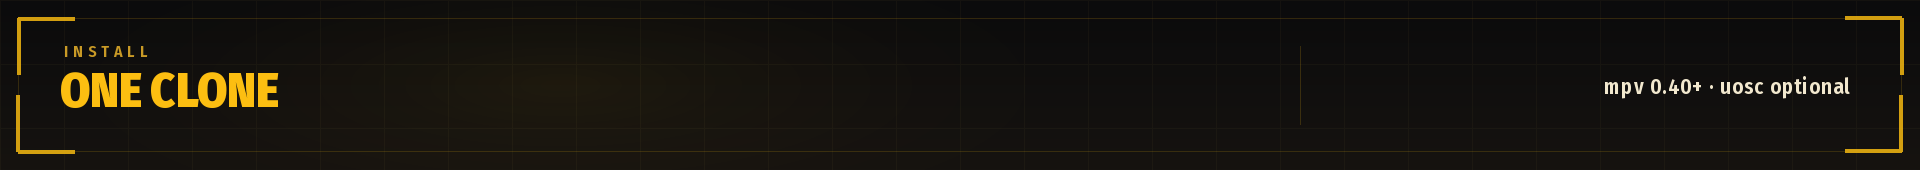
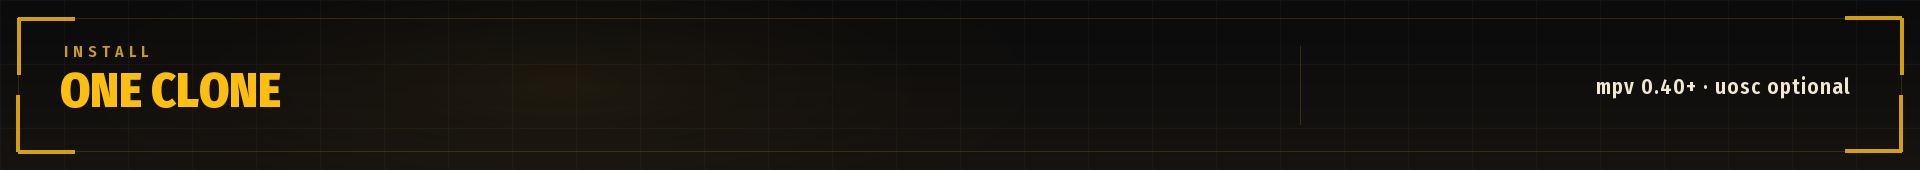
feat: rework keybindings and audio profile names
Move zoom to Ctrl+wheel, capture with F10/Shift+F10 and free the mpv defaults that could fight the subtitle style or the image. Rename Off to No Processing and align the ids with Cinematic, Balanced and Night Mode. Autocrop now waits 10 s after load so fades and title cards do not skew it.

Update the keyboard map with the mouse panel, the README, AGENTS.md and the 1.2.7 changelog entry, and regenerate the banners.

Changed region(s): [[0.8125, 0.4706, 0.9688, 0.5588], [0.0938, 0.4412, 0.1562, 0.6471], [0.0312, 0.2647, 0.0938, 0.3235]]

diff --git a/assets/banner.py b/assets/banner.py
@@ -227,12 +227,12 @@ def strip(path, kicker, title, detail):
 def main():
     p = argparse.ArgumentParser()
     p.add_argument("--out", type=Path, default=HERE)
-    p.add_argument("--version", default="v1.2.6")
+    p.add_argument("--version", default="v1.2.7")
     a = p.parse_args()
     a.out.mkdir(parents=True, exist_ok=True)
     hero(a.out / "banner.png", a.version)
     design(a.out / "design.png", a.version)
-    strip(a.out / "audio.png", "AUDIO", "FOUR PROFILES", "OFF \u00b7 SOFT \u00b7 BALANCED \u00b7 NIGHT")
+    strip(a.out / "audio.png", "AUDIO", "FOUR PROFILES", "NO PROCESSING \u00b7 CINEMATIC \u00b7 BALANCED \u00b7 NIGHT")
     strip(a.out / "subtitles.png", "SUBTITLES", "ADAPTIVE PLACEMENT", "AMBER \u00b7 SIZE \u00b7 DELAY")
     strip(a.out / "installation.png", "INSTALL", "ONE CLONE", "mpv 0.40+ \u00b7 uosc optional")
     for name in ("banner.png", "design.png", "audio.png", "subtitles.png", "installation.png"):

diff --git a/README.md b/README.md
@@ -23,10 +23,10 @@ Subtitle style: fill `#FCBE11` · outline `#1F1F1F` at 1.5 · size 40 · spacing
 
 - **Video** — windowed at most 90 % of the screen, borderless. The `high-quality` profile is on by default: EWA Lanczos with antiringing, sigmoid upscaling, correct downscaling, temporal dither, full-range output and HDR peak computation. Motion interpolation and hardware decoding are off; debanding is off too (`b` toggles it).
 - **Subtitles** — Merriweather Bold 700, bundled in [`fonts/`](fonts/) and loaded from `~~/fonts`, so nothing needs installing. Styling is forced over every track (ASS/fansub signs included); external subs autoload fuzzily; margins, MKV preroll and embedded fonts are enabled. They adapt to the window, not the video: `blend-subtitles=no` keeps them on the OSD layer, so they stay sharp at any size and never stretch with the image, and `w` slides them into the black bars of any letterboxed source. Size chosen with numpad `+` / `-` survives restarts.
-- **Audio** — stereo downmix, pitch correction when changing speed, fuzzy external audio. Four profiles on `1`–`4`, starting in Off; see [Audio profiles](#-audio-profiles).
+- **Audio** — stereo downmix, pitch correction when changing speed, fuzzy external audio. Four profiles on `1`–`4`, starting in No Processing; see [Audio profiles](#-audio-profiles).
 - **Languages** — subtitles English (SDH shares the `en` tag) then Spanish; audio English then Spanish; forwarded to yt-dlp.
 - **Streaming** — 100 s cache, desktop Firefox user agent, maximum HLS bitrate, looping GIF/WebM.
-- **Scripts** — `audio-norm` (profiles), `subtitle-size` (persistence), `esc-quit` (two-step close), `autocrop` (`C`), `autodeint` (`Ctrl+d`), `autoload` (queue the folder), `oled-screensaver` (black overlay after 60 s idle), `thumbfast` (timeline previews).
+- **Scripts** — `audio-norm` (profiles), `subtitle-size` (persistence), `esc-quit` (two-step close), `autocrop` (crops 10 s after load; `C` toggles), `autodeint` (`Ctrl+d`), `autoload` (queue the folder), `oled-screensaver` (black overlay after 60 s idle), `thumbfast` (timeline previews).
 - **Interface** (optional) — [uosc](https://github.com/tomasklaen/uosc) installed from its latest release by the per-system installer ([step 3](#-installation)): proximity timeline, control bar, searchable menus for tracks, OpenSubtitles search, playlist, chapters, file browser and keybind lookup, all with thumbfast previews. It follows `osd-font` and the subtitle-language order; the volume slider mirrors the numpad keys (set `volume=none` in `script-opts/uosc.conf` to hide it). Without uosc the minimal OSC in `script-opts/osc.conf` takes over.
 - **Thumbnails** — [thumbfast](https://github.com/po5/thumbfast) (MPL-2.0) ships in `scripts/` and renders previews by running mpv from `PATH`. If mpv is not in `PATH` (common on Windows), point to it in `script-opts/thumbfast.conf` (gitignored):
 
@@ -34,59 +34,57 @@ Subtitle style: fill `#FCBE11` · outline `#1F1F1F` at 1.5 · size 40 · spacing
   mpv_path=C:\Program Files\mpv\mpv.exe
   ```
 
-## Keys
+## Keybindings
 
-![Keyboard map: amber keys mark every binding; the numpad sets volume and subtitle size](assets/keys.png)
+![Keyboard map: amber keys mark every binding; the numpad sets volume and subtitle size, and the mouse panel shows the zoom and pan controls](assets/keys.png)
 
 | Key | Action |
 | --- | --- |
-| `1` / `2` / `3` / `4` | Audio profile: Off / Soft / Balanced / Night |
+| `1` / `2` / `3` / `4` | Audio profile: No Processing / Cinematic / Balanced / Night Mode |
 | `m` | Mute † |
 | `q` / `w` | Subtitles up / down (past 100 % they enter the black bars) |
 | `a` / `s` | Subtitle delay −100 ms / +100 ms |
-| `z` / `Shift+z` | Zoom (panscan) more / less |
-| `PrintScreen` / `Ctrl+PrintScreen` | Screenshot without / with subtitles |
-| `F10` / `Ctrl+F10` | Same, when the OS captures PrintScreen |
+| `Ctrl`+wheel up/down | Zoom in / out (`video-zoom`) |
+| `Ctrl`+drag | Pan the zoomed image |
+| `F10` / `Shift+F10` | Screenshot without / with subtitles |
 | `Esc` | Leave fullscreen; when windowed, quit (a uosc menu closes first) |
 | `Shift+Esc` | Quit and save the position |
-| `b` / `v` | Toggle deband / cycle video output levels |
+| `b` | Toggle deband |
 | `←` / `→` | Seek −5 s / +5 s † |
 | `↑` / `↓` | Seek +60 s / −60 s † |
 | `[` / `]` | Speed down / up (×0.91 / ×1.1) † |
 | `Backspace` | Speed back to 1× † |
 | numpad `0`–`9` | Volume 0 %, 11.1 %, …, 88.9 %, 100 % † |
 | numpad `+` / `-` | Subtitle size ±2 (saved between runs) |
-| `C` / `Ctrl+d` | Autocrop / autodeint |
+| `C` | Autocrop now (it also runs 10 s after playback starts) |
+| `Ctrl+d` | Autodeint |
 
 † Flashes uosc's own timeline, volume or speed indicator instead of the built-in OSD bar.
 
-`f`, `Space`, double-click fullscreen and the usual track/playlist keys are mpv defaults. Deliberately unbound: `r`, `t`, `e`, `x`, `Shift+q`, `5`–`8`, horizontal `9`/`0`, `/`, `*`, wheel up/down, `S`, `Ctrl+s`, `Alt+s`, `Ctrl+w` and the volume media keys. Only `1`–`4` are horizontal number keys; the numpad digits set volume. `q` no longer quits: `Esc` and `Shift+Esc` are the quit keys (`Ctrl+c` still force-quits).
+`f`, `Space`, `Alt+Backspace` (reset zoom) and the usual track/playlist keys are mpv defaults. Deliberately unbound: `r`, `t`, `e`, `x`, `z`, `Shift+z`, `v`, `Shift+q`, `5`–`8`, horizontal `9`/`0`, `/`, `*`, wheel up/down/left/right, `S`, `Ctrl+s`, `Alt+s`, `Ctrl+w`, `u`, `V`, `A`, `F`, `G`, `E`, `PrintScreen` and the volume media keys. Only `1`–`4` are horizontal number keys; the numpad digits set volume. `q` no longer quits: `Esc` and `Shift+Esc` are the quit keys (`Ctrl+c` still force-quits).
 
 **Closing** is two-step on purpose. In fullscreen, `Esc` leaves fullscreen and only the next press quits. `Shift+Esc` always quits and saves the position; the window close button also saves (`save-position-on-quit`). Resume keeps the position, not the audio profile — the script reasserts the selected profile on load.
 
-**Screenshots** — `PrintScreen` captures the frame, `Ctrl+PrintScreen` adds subtitles; `F10`/`Ctrl+F10` do the same where the OS reserves PrintScreen. On Windows 11 disable *Settings → Accessibility → Keyboard → Use the Print Screen key to open Snipping Tool* if it never reaches mpv. PNG output; with `blend-subtitles=no` neither mode includes the letterbox bars. The old `s`/`S`/`Ctrl+s`/`Alt+s` bindings are gone so `s` can adjust subtitle delay.
+**Screenshots** — `F10` captures the frame, `Shift+F10` adds subtitles. PNG output; with `blend-subtitles=no` neither mode includes the letterbox bars. The old `s`/`S`/`Ctrl+s`/`Alt+s` and `PrintScreen` bindings are gone so `s` can adjust subtitle delay and the print key stays with the system.
+
+**Zoom** — `Ctrl`+wheel moves `video-zoom`: 0 is fit, 0.1 is about +7 %, and negative values zoom out past the frame. `Alt+Backspace` resets zoom, pan and alignment. `z`/`Shift+z` no longer touch the image.
+
+**Autocrop** — after 10 s of playback it detects the encoded black borders and crops them; `C` applies or undoes the crop at any time.
 
 ## 🎚 Audio profiles
 
-![Audio banner: FOUR PROFILES — Off, Soft, Balanced, Night](assets/audio.png)
+![Audio banner: FOUR PROFILES — No Processing, Cinematic, Balanced, Night Mode](assets/audio.png)
 
-`scripts/audio-norm.lua` owns the filter chain. Each key **replaces** it, and playback starts in **1 — Off**. Bindings call named script bindings, so they can be remapped without touching the Lua.
+`scripts/audio-norm.lua` owns the filter chain. Each key **replaces** it, and playback starts in **1 — No Processing**. Bindings call named script bindings, so they can be remapped without touching the Lua.
 
-| Key | Profile | Target | Peak | Character |
-| --- | --- | ---: | ---: | --- |
-| `1` | Off (default) | — | — | original mix |
-| `2` | Soft | −23 LUFS | −1 dBTP | wide, natural |
-| `3` | Balanced | −18 LUFS | −2 dBTP | controlled |
-| `4` | Night | −16 LUFS | −3 dBTP | dialogue lifted |
+| Key | Profile | Chain | I (LUFS) | LRA | TP (dBTP) | Character |
+| --- | --- | --- | ---: | ---: | ---: | --- |
+| `1` | No Processing (default) | none | — | — | — | original mix |
+| `2` | Cinematic | `loudnorm` | −23 | 18 | −1 | wide, natural |
+| `3` | Balanced | `loudnorm` | −18 | 15 | −2 | controlled |
+| `4` | Night Mode | `acompressor` 4:1 at −18 dB → `loudnorm` | −16 | 7 | −3 | dialogue lifted |
 
-| Key | Processing | I (LUFS) | LRA | TP (dBTP) | `alimiter` |
-| --- | --- | ---: | ---: | ---: | ---: |
-| `1` | none | — | — | — | — |
-| `2` | `loudnorm` | −23 | 18 | −1 | −1 dBFS |
-| `3` | `loudnorm` | −18 | 15 | −2 | −2 dBFS |
-| `4` | `acompressor` 4:1 at −18 dB → `loudnorm` | −16 | 7 | −3 | −3 dBFS |
-
-Soft, Balanced and Night use `loudnorm` in single-pass dynamic mode (`linear=false`): gain follows the target live, no pre-scan. Night adds one compressor stage — threshold `0.125` (≈ −18 dBFS), ratio `4:1`, attack `20 ms`, release `250 ms`, knee `2.5`, unity makeup. Every processed profile ends in `alimiter` (`level=0`, 5 ms attack / 50 ms release): `loudnorm`'s TP is the true-peak target, `alimiter` the sample-peak safety net.
+Cinematic, Balanced and Night Mode use `loudnorm` in single-pass dynamic mode (`linear=false`): gain follows the target live, no pre-scan. Night Mode adds one compressor stage — threshold `0.125` (≈ −18 dBFS), ratio `4:1`, attack `20 ms`, release `250 ms`, knee `2.5`, unity makeup. Every processed profile ends in `alimiter` (`level=0`, 5 ms attack / 50 ms release): `loudnorm`'s TP is the true-peak target, `alimiter` the sample-peak safety net.
 
 - **LUFS** — perceived loudness; `loudnorm` drives gain to the target and constrains LRA and TP.
 - **Loudness ≠ volume** — loudness belongs to the recording; volume to the player, OS, DAC or speakers.
@@ -94,7 +92,7 @@ Soft, Balanced and Night use `loudnorm` in single-pass dynamic mode (`linear=fal
 - **Compression** — `acompressor` turns down what exceeds its threshold, shrinking the gap between dialogue and effects.
 - **LRA** — the quiet-to-loud span; a lower target compresses it more. Labels describe the intended result, not a measurement of every soundtrack.
 
-**Volume** starts at 100. Numpad `0`–`9` sets 0 %, 11.1 %, …, 88.9 %, 100 % (0 is silent, 9 is full scale); `/` and `*` adjust ±2; `m` and the mute key mute. `volume-max=100` blocks gain above 100 %, and the horizontal volume keys, wheel and media keys stay unbound.
+**Volume** starts at 100. Numpad `0`–`9` sets 0 %, 11.1 %, …, 88.9 %, 100 % (0 is silent, 9 is full scale); `/` and `*` adjust ±2; `m` and the mute key mute. `volume-max=100` blocks gain above 100 %, and the horizontal `9`/`0`, `/`, `*`, the plain wheel and the media volume keys stay unbound (`Ctrl`+wheel is zoom).
 
 **Resume** restores position only: `watch-later-options-remove` drops `af`, `volume` and `mute` from new watch-later files, and the profile is reasserted on every load. Old watch-later files may still carry a volume; deleting them clears it.
 
@@ -104,7 +102,7 @@ Soft, Balanced and Night use `loudnorm` in single-pass dynamic mode (`linear=fal
 
 Subtitles are laid out against the window instead of the video image: `blend-subtitles=no` keeps them on the OSD layer, so they stay sharp at any window size and never stretch with the picture. `sub-use-margins=yes` and `sub-ass-force-margins=yes` let them use the whole frame, and `w` moves them into the bottom black bar of any letterboxed source — 21:9 or 4:3, same behaviour. `sub-pos` runs 0–150; 100 is the normal spot just above the bottom edge, and `w` (or ~100–106) sits inside the bar. Much higher approaches the window edge and can clip, especially with two lines.
 
-Numpad `+` / `-` (or `G` / `F`) change the size; `scripts/subtitle-size.lua` writes every change to `subtitle-size.txt` and restores it at startup. The file is gitignored — delete it to fall back to `sub-font-size=40`.
+Numpad `+` / `-` change the size; `scripts/subtitle-size.lua` writes every change to `subtitle-size.txt` and restores it at startup. The file is gitignored — delete it to fall back to `sub-font-size=40`.
 
 ## 📥 Installation
 
@@ -128,7 +126,7 @@ mv ~/.config/mpv ~/.config/mpv.backup 2>/dev/null
 git clone https://github.com/mfascioli/mpv-config.git ~/.config/mpv
 ```
 
-**2 — Start mpv.** Settings, keys, scripts, the Merriweather font and a minimal OSC are ready. mpv finds the folder by itself — no flags, no network.
+**2 — Start mpv.** Settings, keybindings, scripts, the Merriweather font and a minimal OSC are ready. mpv finds the folder by itself — no flags, no network.
 
 **3 — Optional: uosc.** The timeline, control bar, menus and search. Run one command; skip it to keep the minimal OSC:
 

diff --git a/AGENTS.md b/AGENTS.md
@@ -21,34 +21,42 @@ OSD messages, commit messages, image labels, filenames. Never reintroduce
 Spanish aliases such as *Cine*, *Películas*, *Estándar* or *Noche*, and check
 for leftovers before calling a task done.
 
+## Terminology
+
+Use **keybindings** (English) for the assignments, everywhere: README, image
+labels, comments, CHANGELOG. Do not alternate with *hotkeys*, *keys* or
+*bindings* when referring to assignments. *Keys* is only acceptable for the
+physical keyboard (`numpad keys`, `arrow keys`).
+
 ## Audio profiles
 
 Four profiles on `1`–`4`, handled by `scripts/audio-norm.lua`. Playback starts
-in **Off**; each key replaces the chain instead of stacking filters. Bindings
-call named script bindings (`audio_norm/off|soft|balanced|night`), so keys can
-be remapped without touching the Lua.
+in **No Processing**; each key replaces the chain instead of stacking filters.
+Bindings call named script bindings
+(`audio_norm/no_processing|cinematic|balanced|night_mode`), so keys can be
+remapped without touching the Lua.
 
 | Key | Profile | `loudnorm` | LRA | TP | `alimiter` | Extra |
 | --- | --- | ---: | ---: | ---: | ---: | --- |
-| `1` | Off | — | — | — | — | none |
-| `2` | Soft | −23 LUFS | 18 | −1 | 0.8913 | none |
+| `1` | No Processing | — | — | — | — | none |
+| `2` | Cinematic | −23 LUFS | 18 | −1 | 0.8913 | none |
 | `3` | Balanced | −18 LUFS | 15 | −2 | 0.7943 | none |
-| `4` | Night | −16 LUFS | 7 | −3 | 0.7079 | `acompressor` 4:1 at −18 dB |
+| `4` | Night Mode | −16 LUFS | 7 | −3 | 0.7079 | `acompressor` 4:1 at −18 dB |
 
 - `linear=false` on every processed profile (single-pass dynamic mode).
-- Night compressor: threshold `0.125` (≈ −18 dBFS), ratio `4:1`, attack `20 ms`,
-  release `250 ms`, knee `2.5`, unity makeup.
+- Night Mode compressor: threshold `0.125` (≈ −18 dBFS), ratio `4:1`, attack
+  `20 ms`, release `250 ms`, knee `2.5`, unity makeup.
 - `alimiter` runs with `level=0`; its limit is the sample-peak ceiling
   (`20·log10(limit)`), while `loudnorm`'s `TP` is the true-peak target.
 - The chain is reasserted on `file-loaded`, and `watch-later-options-remove`
   drops `af`, `volume` and `mute` from resume files.
 
-**Why these targets.** Soft keeps the EBU R128 reference and gentle dynamics
-for quiet listening; Balanced is the −18 LUFS normalization most material is
-mixed around; Night pushes to −16 LUFS with compression so dialogue stays
-intelligible at low volume. The ladder is 5 LU, then 2 LU. Do not change these
-numbers silently: the user explicitly prefers them over the earlier
-−22/−20/−18 experiment and wants deviations justified first.
+**Why these targets.** Cinematic keeps the EBU R128 reference and gentle
+dynamics for quiet listening; Balanced is the −18 LUFS normalization most
+material is mixed around; Night Mode pushes to −16 LUFS with compression so
+dialogue stays intelligible at low volume. The ladder is 5 LU, then 2 LU. Do
+not change these numbers silently: the user explicitly prefers them over the
+earlier −22/−20/−18 experiment and wants deviations justified first.
 
 Do not reintroduce `scripts/neutral-volume.lua`, `dynaudnorm`, or a policy that
 pins `volume` to 100. `volume=100` is only the startup level.
@@ -63,9 +71,9 @@ pins `volume` to 100. `volume=100` is only the startup level.
 | `m`, `MUTE` | mute |
 
 Every volume binding uses `no-osd ... ; script-binding uosc/flash-volume`.
-Horizontal `9`/`0`, `/`, `*`, mouse wheel and the media volume keys stay
-unbound. `volume-max=100` remains. uosc's volume slider is enabled
-(`volume=right` in the local `uosc.conf`).
+Horizontal `9`/`0`, `/`, `*`, the plain wheel and the media volume keys stay
+unbound; `Ctrl`+wheel is zoom. `volume-max=100` remains. uosc's volume slider
+is enabled (`volume=right` in the local `uosc.conf`).
 
 ## Subtitles
 
@@ -82,19 +90,25 @@ unbound. `volume-max=100` remains. uosc's volume slider is enabled
   `subtitle-size.txt` (gitignored) and restores it on startup. Delete the file
   to reset to 40.
 
-## Keys and closing
+## Keybindings and closing
 
-- `q`/`w`: subtitles up/down. `a`/`s`: subtitle delay. `z`/`Shift+z`: zoom.
-  `b`/`v`: deband / output levels. `C`/`Ctrl+d`: autocrop / autodeint.
-- `PrintScreen` / `Ctrl+PrintScreen`: screenshot without / with subtitles;
-  `F10` / `Ctrl+F10` are fallbacks.
+- `q`/`w`: subtitles up/down. `a`/`s`: subtitle delay. `b`: deband.
+- `Ctrl`+wheel: `video-zoom` in/out with an OSD value; `Alt+Backspace` resets
+  zoom, pan and alignment. `z`/`Shift+z` stay free.
+- `Ctrl`+drag pans the zoomed image; right click opens the context menu; left
+  click belongs to uosc.
+- `F10` / `Shift+F10`: screenshot without / with subtitles. `PrintScreen` is
+  not used.
+- `C`: autocrop now; it also runs 10 s after playback starts
+  (`script-opts-append=autocrop-auto_delay=10`). `Ctrl+d`: autodeint. Both stay.
 - `Esc`: leaves fullscreen first, quits on the next press (no save).
   `Shift+Esc`: quit and save position. `q` does not quit. `Ctrl+c` force-quits.
 - `←`/`→` seek ±5 s, `↑`/`↓` ±60 s, `[`/`]` speed, `Backspace` 1×; these flash
   uosc's indicators.
-- Only `1`–`4` are horizontal number keys. Keep `r`, `t`, `e`, `x`, `Shift+q`,
-  `5`–`8`, `9`, `0`, `/`, `*`, wheel, `S`, `Ctrl+s`, `Alt+s`, `Ctrl+w` and the
-  volume media keys unbound.
+- Only `1`–`4` are horizontal number keys. Keep `r`, `t`, `e`, `x`, `z`,
+  `Shift+z`, `v`, `Shift+q`, `5`–`8`, `9`, `0`, `/`, `*`, wheel up/down/left/
+  right, `S`, `Ctrl+s`, `Alt+s`, `Ctrl+w`, `u`, `V`, `A`, `F`, `G`, `E`,
+  `PrintScreen` and the volume media keys unbound.
 
 ## Docs style
 
@@ -109,15 +123,19 @@ unbound. `volume-max=100` remains. uosc's volume slider is enabled
 
 ## Images
 
-- The keyboard map is `assets/keys.png`, embedded under **Keys** in the README.
+- The keyboard map is `assets/keys.png`, embedded under **Keybindings** in the
+  README.
 - It is generated deterministically by `assets/keys.ps1` (PowerShell +
   System.Drawing), not by an image model: exact labels, no gibberish. Run
   `powershell -ExecutionPolicy Bypass -File assets/keys.ps1` after changing
-  bindings.
+  keybindings.
 - Style: SQUAD-like tactical HUD, charcoal background, faint grid, amber
   `#FCBE11` glow on active keys, condensed sans labels, 1920×1080.
-- Labels are English and describe the bindings exactly. Modifier actions are
-  written as combinations (`SHIFT+Z`, `CTRL+PRINT`, `SHIFT+ESC`); never put a
+- The right side carries a mouse panel: wheel highlighted for
+  `CTRL+WHEEL = ZOOM`, plus `ALT+BS = RESET ZOOM`, `CTRL+DRAG = PAN`,
+  `RIGHT CLICK = MENU` and `LEFT CLICK = UI`.
+- Labels are English and describe the keybindings exactly. Modifier actions are
+  written as combinations (`SHIFT+F10`, `CTRL+WHEEL`, `SHIFT+ESC`); never put a
   combo action on the bare modifier key alone.
 - For any other text-heavy image, draw it instead of generating it: exact
   text matters more than style.
@@ -126,7 +144,7 @@ unbound. `volume-max=100` remains. uosc's volume slider is enabled
   Pillow) using the bundled Fira Sans Condensed in `assets/fonts/` (SIL OFL),
   with the same palette, grid and HUD frame as the keyboard map. `--version`
   sets the chip on the two large images; rerun `python3 assets/banner.py` after
-  changing text or releasing.
+  changing text or releasing. The audio strip lists the four profile names.
 
 ## Git
 
@@ -137,13 +155,20 @@ unbound. `volume-max=100` remains. uosc's volume slider is enabled
 
 ## Testing checklist
 
-- Startup: Off, empty `af`, volume 100, subtitle size 40.
+- Startup: No Processing, empty `af`, volume 100, subtitle size 40.
 - `1`–`4`: correct chain applied and replaced, no filter stacking.
 - Numpad: `0`→0, `5`→55.56, `9`→100, `/`→−2, `*`→+2; `+`/`-` change size.
 - Subtitle size restored after restart.
+- Zoom: `Ctrl`+wheel changes `video-zoom` and shows the value; `z`/`Shift+z`
+  do nothing; `Alt+Backspace` resets.
+- Defaults freed: `u`, `V`, `A`, `F`, `G`, `E`, `v` and horizontal wheel do
+  nothing.
+- Screenshots: `F10` has no subtitles; `Shift+F10` includes them; `PrintScreen`
+  does nothing in mpv.
+- Autocrop: with a letterboxed file, the crop happens about 10 s in and `C`
+  applies or undoes it.
 - Bars: with a letterboxed clip (21:9 on 16:9, or 4:3 on 16:9), `sub-pos` ≈105 places subtitles inside the bottom bar.
 - Seeks: `←`/`→` move exactly 5 s on a file whose keyframes are 10 s apart (without `exact`, mpv would land 8 s away); `↑`/`↓` do 60 s.
-- Screenshots: video-only has no subtitles; the with-subtitles mode includes them.
 - `Esc` in fullscreen leaves fullscreen, next press quits without saving;
   `Shift+Esc` writes `start=` only.
 

diff --git a/CHANGELOG.md b/CHANGELOG.md
@@ -1,5 +1,14 @@
 # Changelog
 
+## 1.2.7 — 2026-11-17
+
+- **Audio profiles:** `Off` is now **No Processing** and the other profiles are **Cinematic** (−23 LUFS), **Balanced** (−18 LUFS) and **Night Mode** (−16 LUFS). The script ids and bindings follow the names (`audio_norm/no_processing|cinematic|balanced|night_mode`), so `input.conf`, the OSD and the docs use one vocabulary. Targets and filter chains are unchanged.
+- **Zoom:** `Ctrl`+wheel now moves `video-zoom` with an on-screen value; `z` and `Shift+z` are freed and no longer touch the image. `Alt+Backspace` still resets zoom, pan and alignment.
+- **Screenshots:** `F10` captures without subtitles and `Shift+F10` with them. `PrintScreen`, `Ctrl+PrintScreen` and `Ctrl+F10` are gone; the print key stays with the system.
+- **Keybindings:** freed mpv defaults that could fight the config — `u` (ASS override), `V` (ASS video data), `A` (forced aspect), `F`/`G` (subtitle scale), `E` (editions), `v` (output levels) and horizontal wheel seeking. `d` and `Ctrl+d` remain for deinterlacing.
+- **Autocrop:** the automatic crop now waits 10 s after playback starts (`autocrop-auto_delay=10`), so fades and title cards do not skew detection; `C` still applies or undoes it.
+- **Docs:** the README section is **Keybindings**, and the same term is used across docs, comments and images. The keyboard map gains a mouse panel (`CTRL+WHEEL`, `ALT+BS`, `CTRL+DRAG`, right click, left click), the new profile names and the new screenshot keys, and the banners are regenerated for 1.2.7 with the audio strip listing the four profile names.
+
 ## 1.2.6 — 2026-11-17
 
 - **Docs (design):** the specimen line in `assets/design.png` now reads "Anyway, I hope everything goes smoothly." instead of "The city never looked this quiet." Same size, colour, outline and position; the banners are regenerated for 1.2.6.
